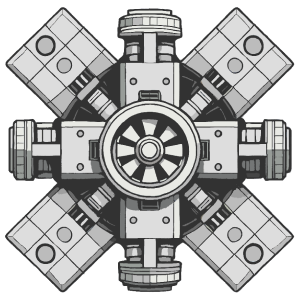
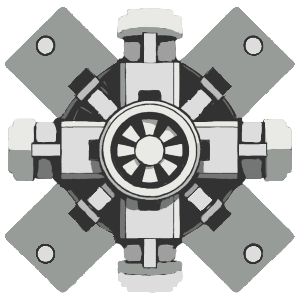
Fixed image stretching bug

diff --git a/src/app/components/ship-element/ship-element.component.ts b/src/app/components/ship-element/ship-element.component.ts
@@ -1,17 +1,25 @@
-import { Component, input, OnInit, output, Signal, viewChild } from '@angular/core';
+import { Component, input, OnInit, output, signal } from '@angular/core';
 import { ShipElement } from '../../models/ship-element';
+import { CommonModule } from '@angular/common';
 
 @Component({
   selector: 'app-ship-element',
   standalone: true,
-  imports: [],
+  imports: [CommonModule],
   templateUrl: './ship-element.component.html',
   styleUrl: './ship-element.component.scss',
 })
-export class ShipElementComponent {
+export class ShipElementComponent implements OnInit {
   shipElement = input.required<ShipElement>();
+  wideImage = signal(false);
 
   heldImageSrc = output<string>();
+
+  ngOnInit(): void {
+    if (this.shipElement().imageWidth > this.shipElement().imageHeight) {
+      this.wideImage.set(true);
+    }
+  }
 
   public onImageDrag(event: any): void {
     this.heldImageSrc.emit(event.target.src);

diff --git a/src/app/components/ship-element/ship-element.component.html b/src/app/components/ship-element/ship-element.component.html
@@ -9,7 +9,7 @@
   </div>
   <div class="image-container">
     <img
-      class="ship-element-image"
+      [ngClass]="wideImage() ? 'ship-element-image-wide' : 'ship-element-image-square'"
       #shipElementImage
       src="{{ shipElement().imageFileName }}"
       alt="{{ shipElement().name }}"

diff --git a/src/app/models/ship-element.ts b/src/app/models/ship-element.ts
@@ -7,6 +7,8 @@ interface ShipElementBase {
   notes?: string[];
   imageFileName?: string;
   imageUrl?: string;
+  imageWidth: string;
+  imageHeight: string
 }
 
 interface ShipWeapon extends ShipElementBase {

diff --git a/src/app/components/ship-element/ship-element.component.scss b/src/app/components/ship-element/ship-element.component.scss
@@ -7,9 +7,14 @@
   min-width: 50%;
 }
 
-.ship-element-image {
+.ship-element-image-wide {
   width: 200px;
   height: 100px;
+}
+
+.ship-element-image-square {
+  width: 200px;
+  height: 200px;
 }
 
 ul {
